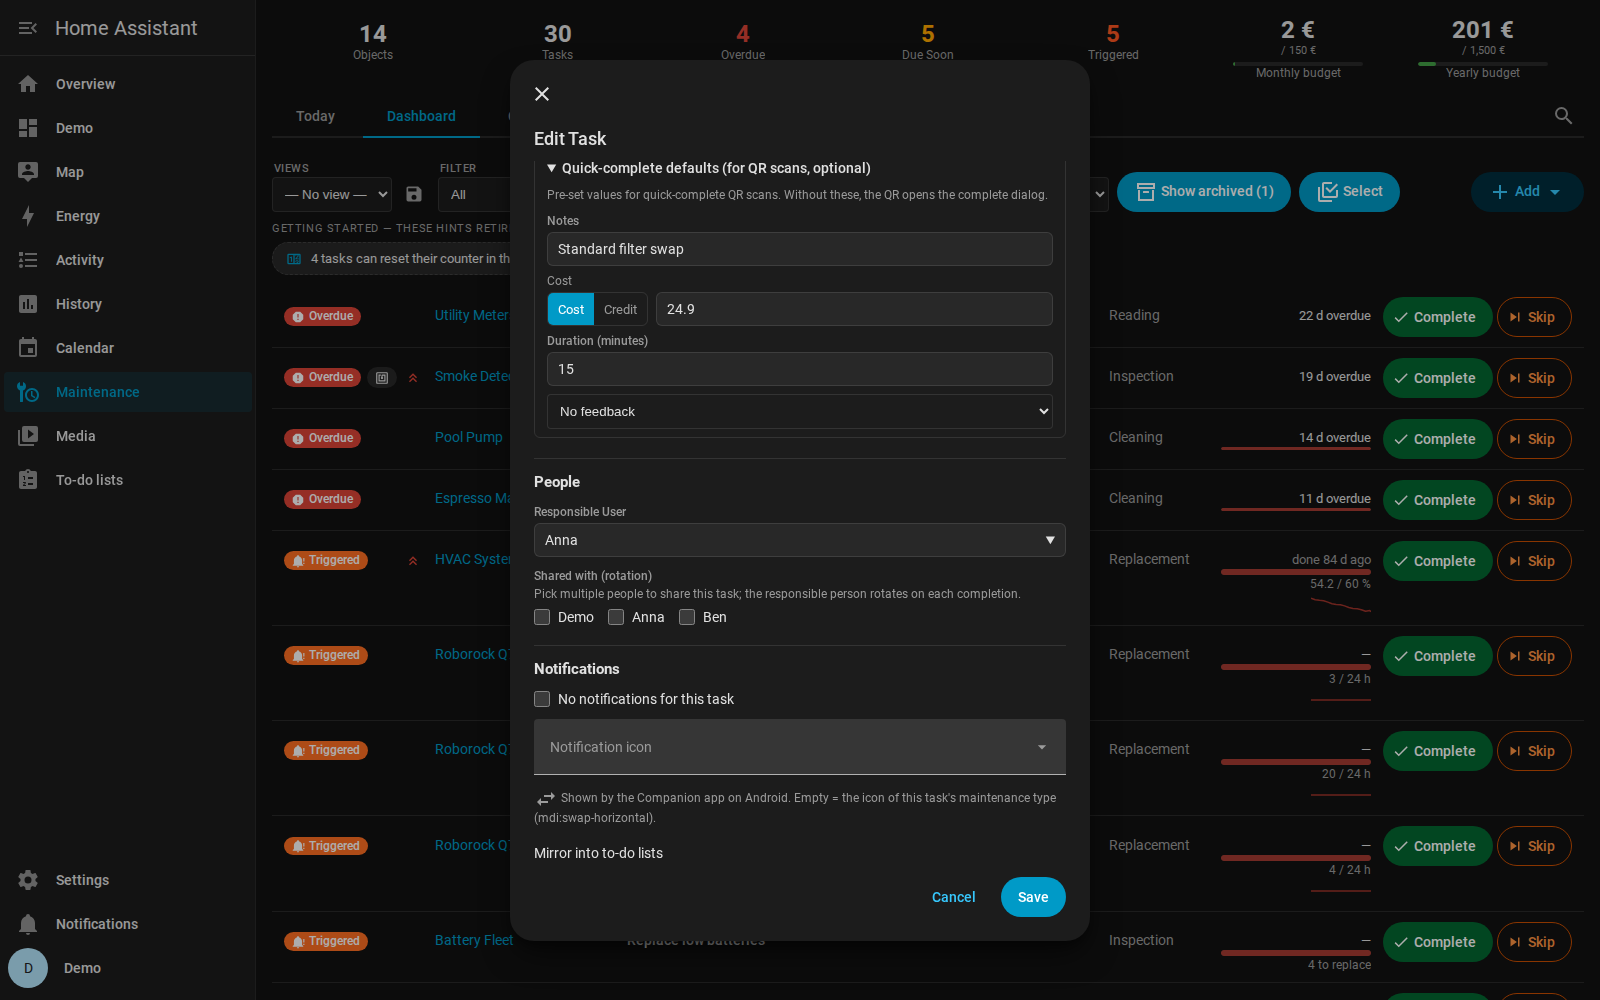
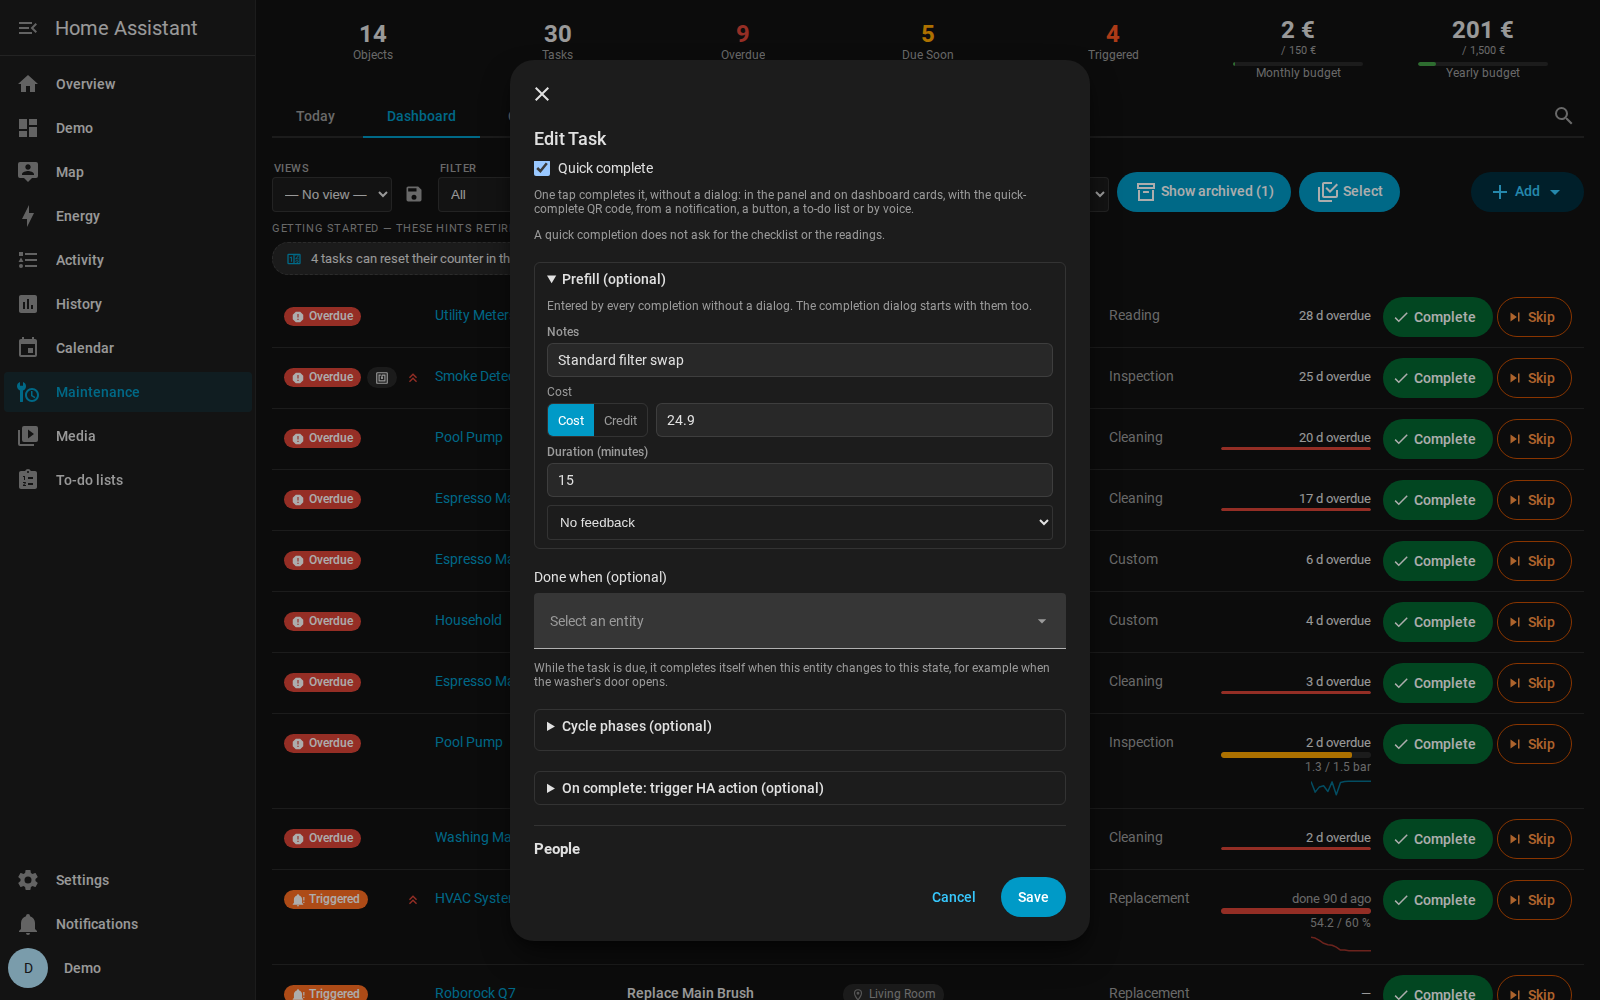
docs: the Quick complete screenshot shows the switch
The image still showed the old collapsible defaults section. shots-demo
now scrolls to the switch (with the prefill fold open) and opens the
panel itself, so the image can be shot on its own. FEATURES and
CONFIGURATION say where a shared device shows up: the history entry
keeps it, the service record and the area report name it.

Claude-Session: https://claude.ai/code/session_01QKEuq48RK9t8ihLVRyGpXC

diff --git a/docs/CONFIGURATION.md b/docs/CONFIGURATION.md
@@ -81,7 +81,7 @@ These toggles control which advanced features the panel offers and shows — the
 | Setting key | Type | Default | Description |
 |---|---|---|---|
 | `admin_panel_user_ids` | list[string] | `[]` | HA user UUIDs (max 50, each ≤64 chars) granted full panel access despite not being HA admins — only while `operator_write_enabled` is on; otherwise they are operators like any other non-admin. Empty list = only admins see the full panel. |
-| `shared_device_user_ids` | list[string] | `[]` | (#233 follow-up) Accounts several people use, like a kitchen tablet (Settings → Shared devices; Configure → Panel Access). A completion from one counts for whoever is on duty, the responsible person (on a rotation whose turn it is); the history entry keeps the device as `completed_via` and the object history reads "Ann (via Kitchen tablet)". Nobody on duty: the account keeps it. Not exported (user ids are instance-bound). |
+| `shared_device_user_ids` | list[string] | `[]` | (#233 follow-up) Accounts several people use, like a kitchen tablet (Settings → Shared devices; Configure → Panel Access). A completion from one counts for whoever is on duty, the responsible person (on a rotation whose turn it is); the history entry keeps the device as `completed_via`, and the service record and the area report read "Ann (via Kitchen tablet)". Nobody on duty: the account keeps it. Not exported (user ids are instance-bound). |
 | `operator_write_enabled` | bool | `false` | (2.8.4+) Master switch for operator write delegation. **Off** (default): the allowlist above has no effect — only HA admins can create / edit / delete, everyone else gets the household actions. **On**: allowlisted non-admins additionally gain full content CRUD (`@require_write`). Admin-gated commands (global settings, import, vacation, allowlist) stay admin-only either way. Admin-only toggle. |
 
 ### Notification Settings

diff --git a/docs/FEATURES.md b/docs/FEATURES.md
@@ -1018,9 +1018,10 @@ where doing it is all there is to record.
 - **Shared devices** (Settings → Shared devices): a completion from an account
   several people use, like the kitchen tablet, counts for whoever is on duty
   (the responsible person, on a rotation whose turn it is), so a least-completed
-  rotation stays fair; the history notes the device.
+  rotation stays fair. The history entry keeps the device, and the service
+  record and the area report name both: *Anna (via Kitchen tablet)*.
 
-![Quick-Complete Defaults](images/task-dialog-quick-complete.png)
+![Quick complete](images/task-dialog-quick-complete.png)
 
 </details>
 
